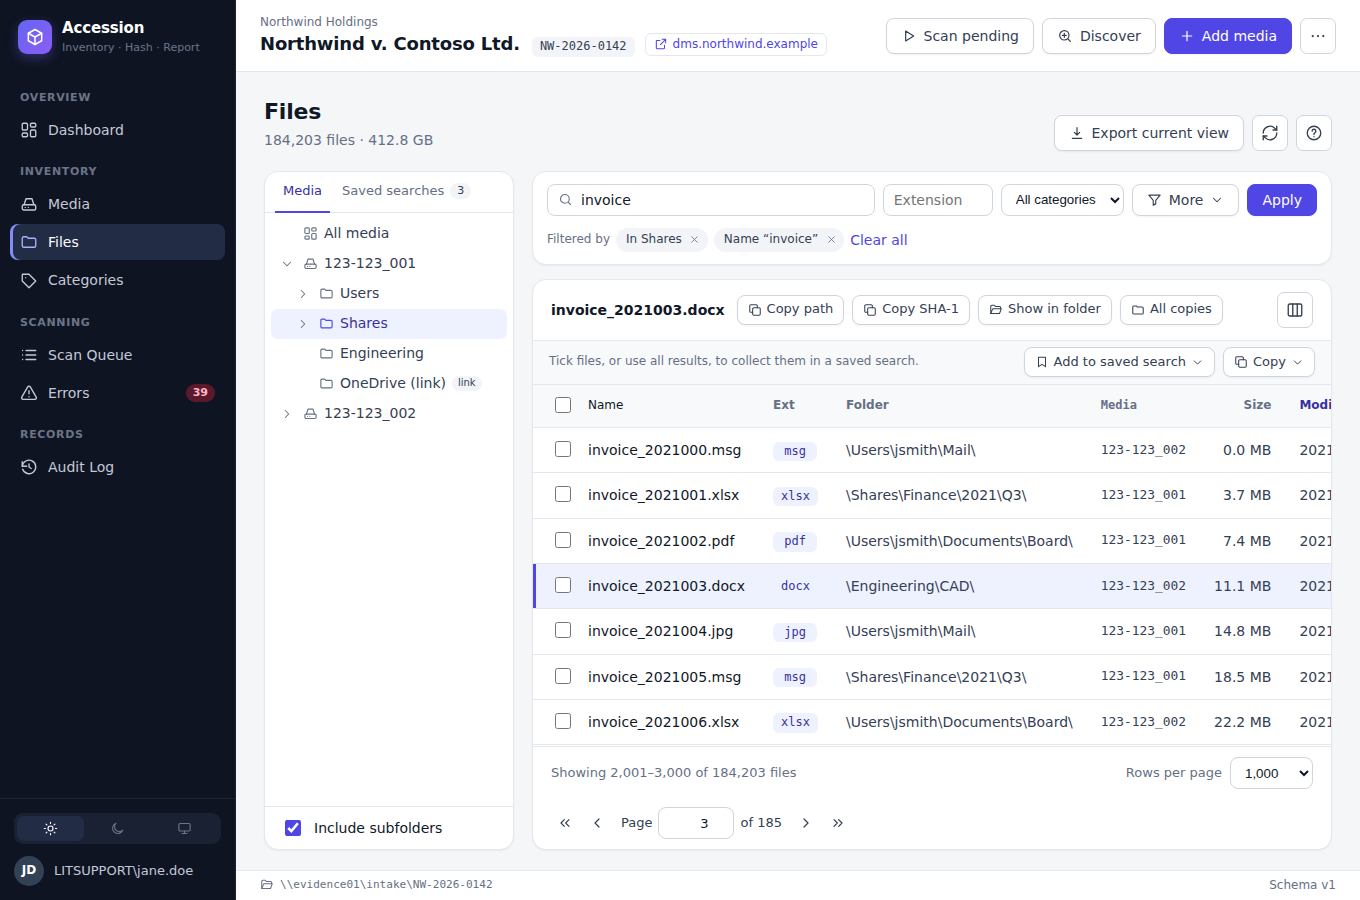
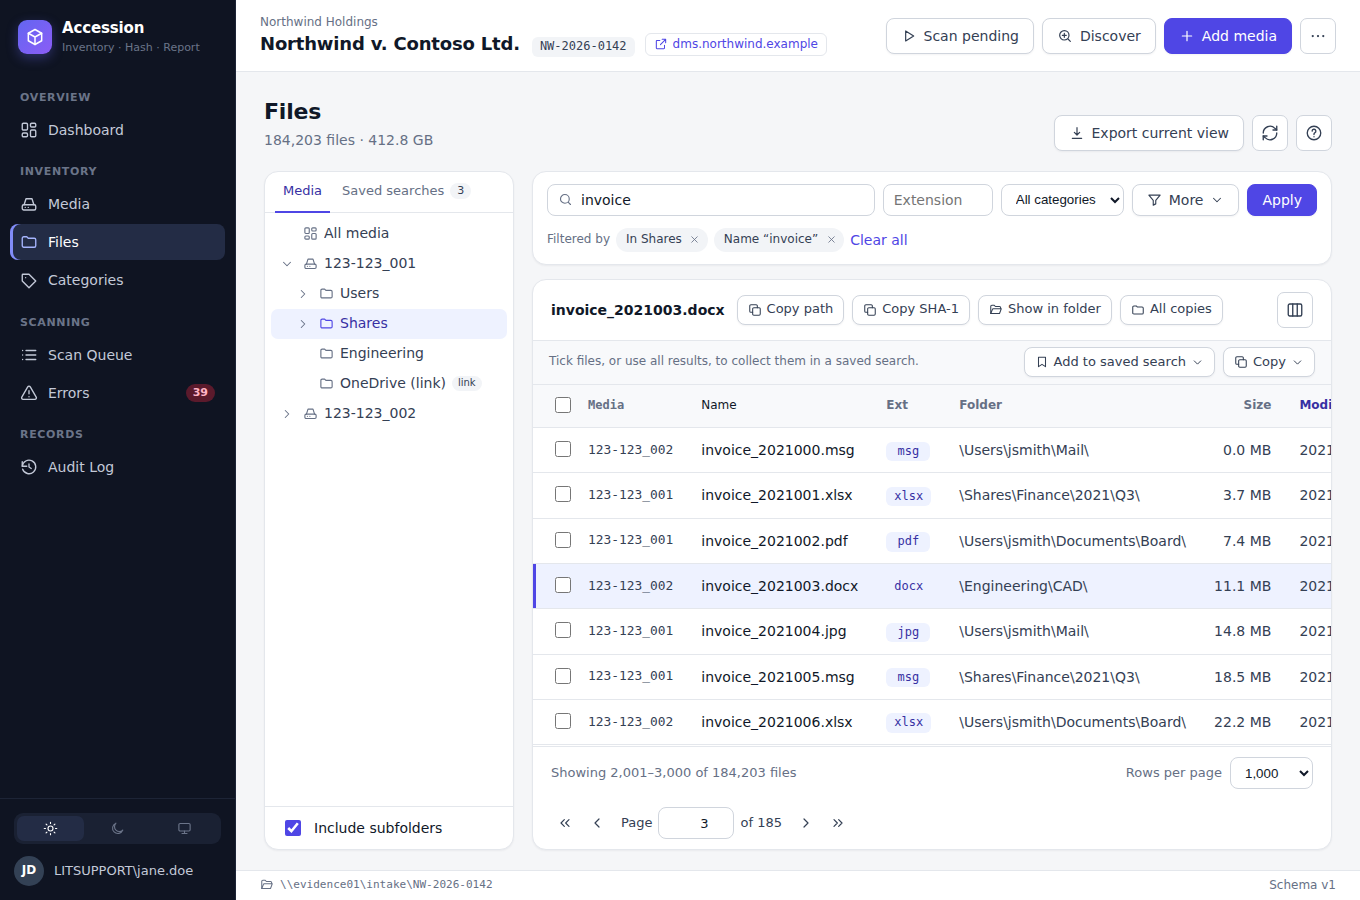
Files table: Media column before Name
The Media column (when shown) is now the first column after the tick
box, and first in the columns menu. Help screenshots refreshed.

Claude-Session: https://claude.ai/code/session_01UTQuWakbAyEFAKq5RSeUfc

diff --git a/tests/Accession.Tests/WebUi/FilesPageTests.cs b/tests/Accession.Tests/WebUi/FilesPageTests.cs
@@ -20,6 +20,10 @@ public sealed class FilesPageTests
         Assert.Contains("2,001", html);          // pager: page 3 of 1,000 rows
         Assert.Contains("of 185", html);
         Assert.Contains("aria-sort=\"descending\"", html);
+
+        var header = html[html.IndexOf("<thead>", StringComparison.Ordinal)..html.IndexOf("</thead>", StringComparison.Ordinal)];
+        Assert.True(header.IndexOf(">Media<", StringComparison.Ordinal) is > 0 and var media && media < header.IndexOf(">Name<", StringComparison.Ordinal),
+            "Media comes before Name");
     }
 
     [Fact]
